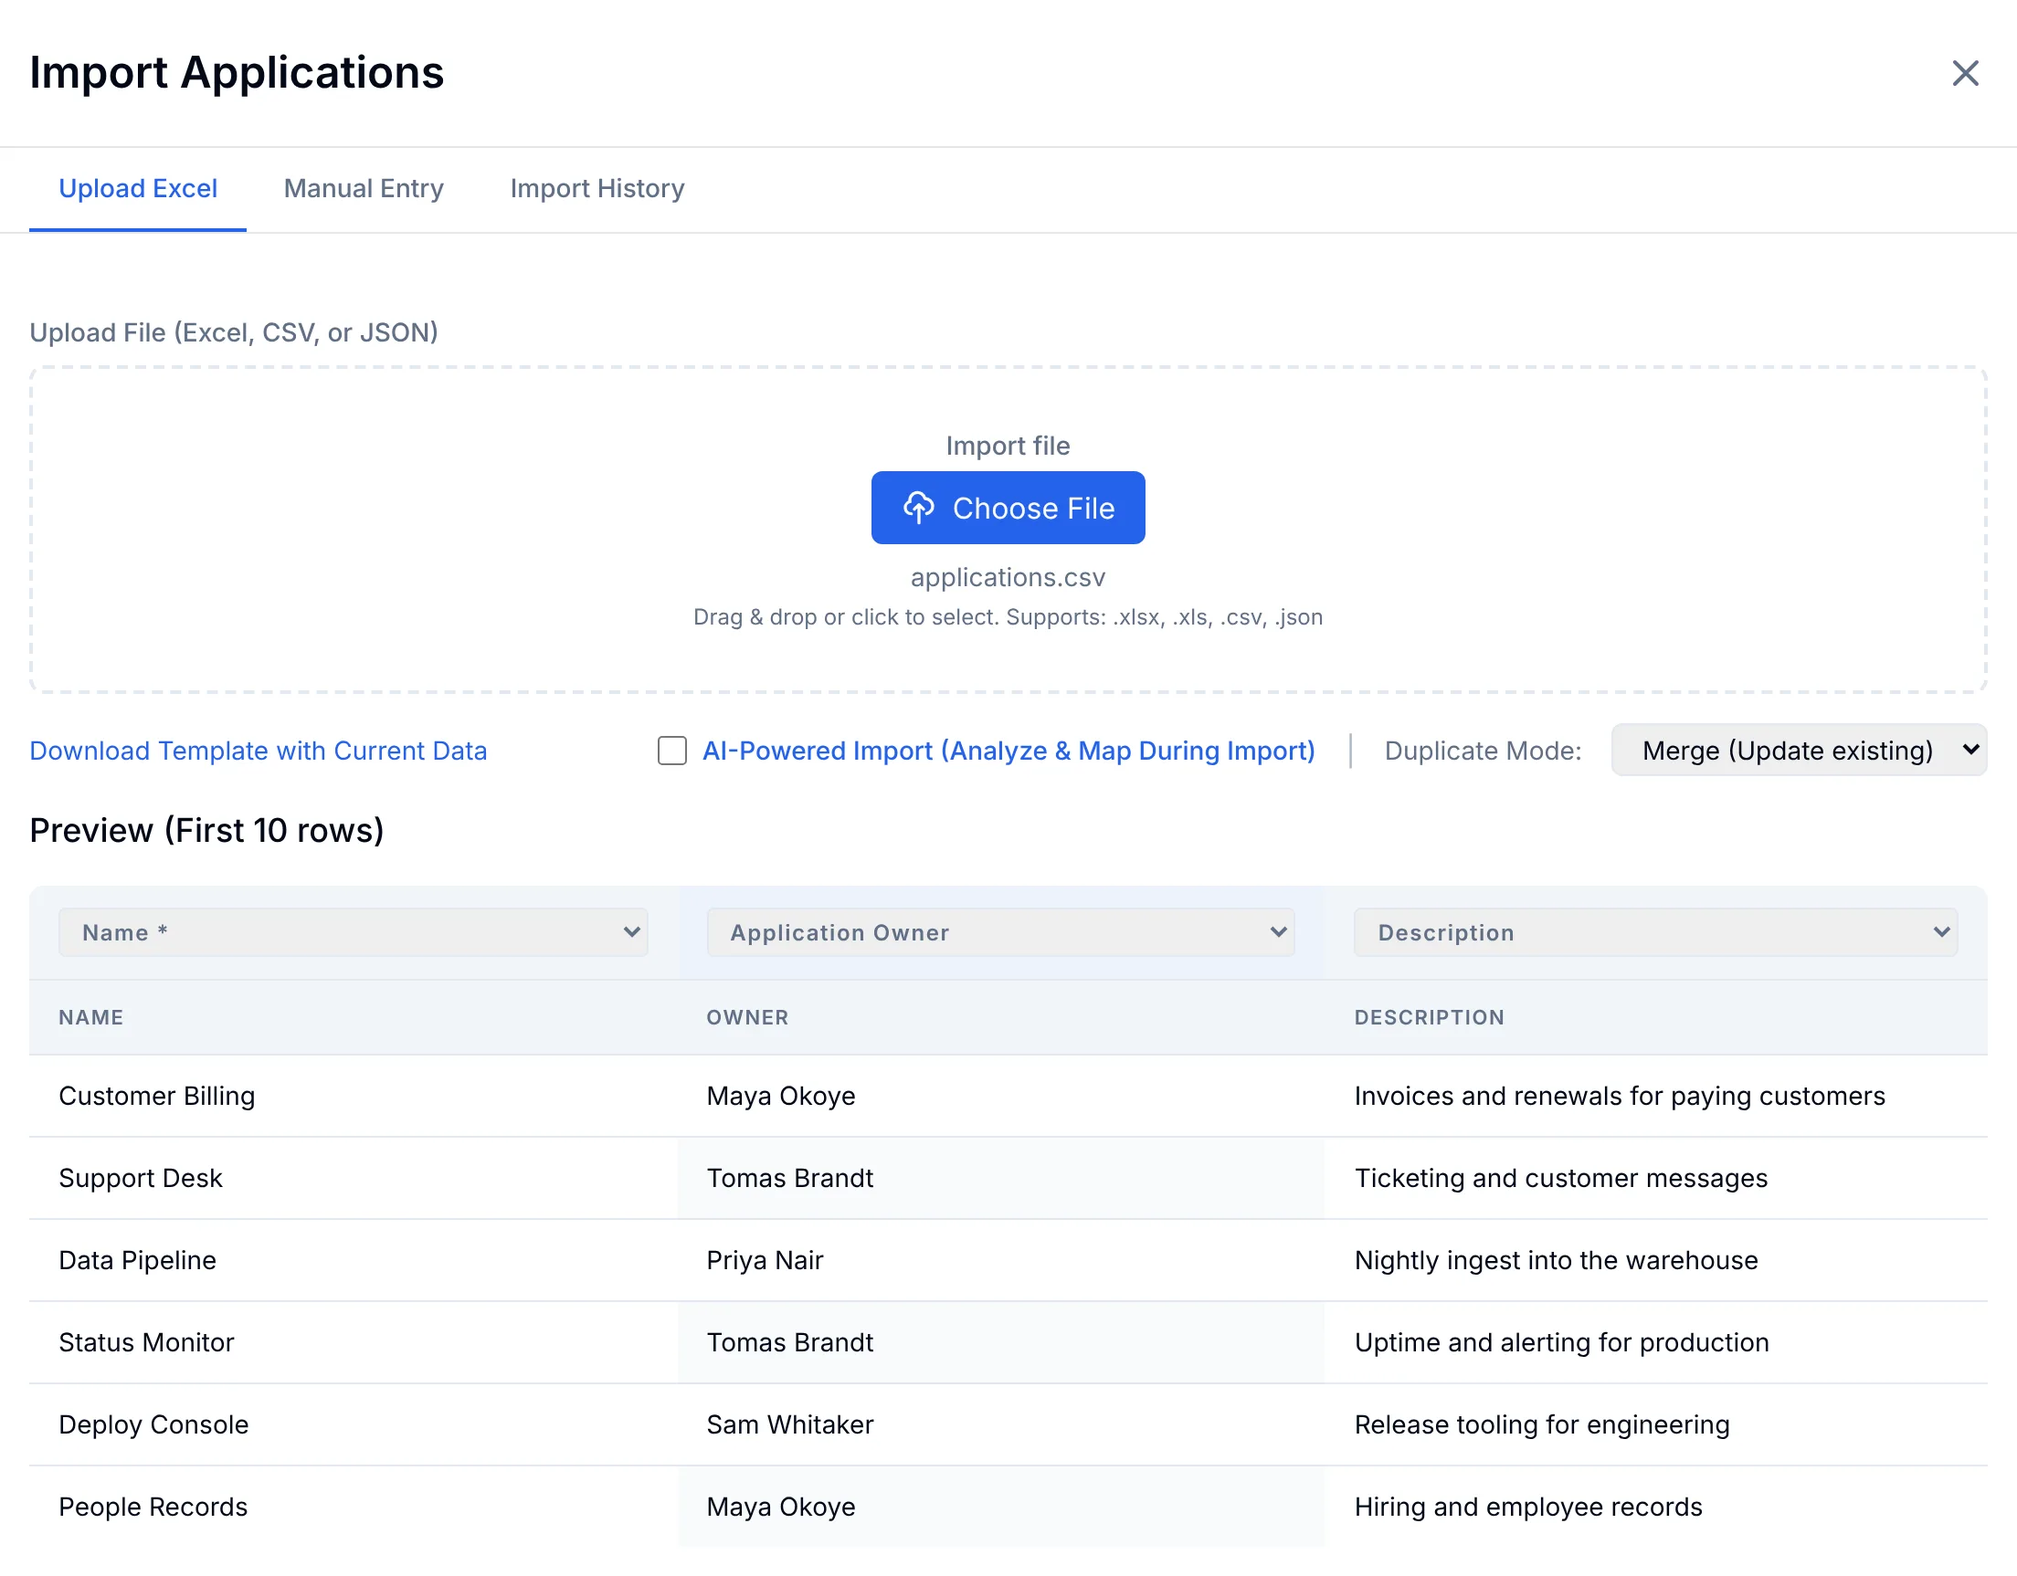
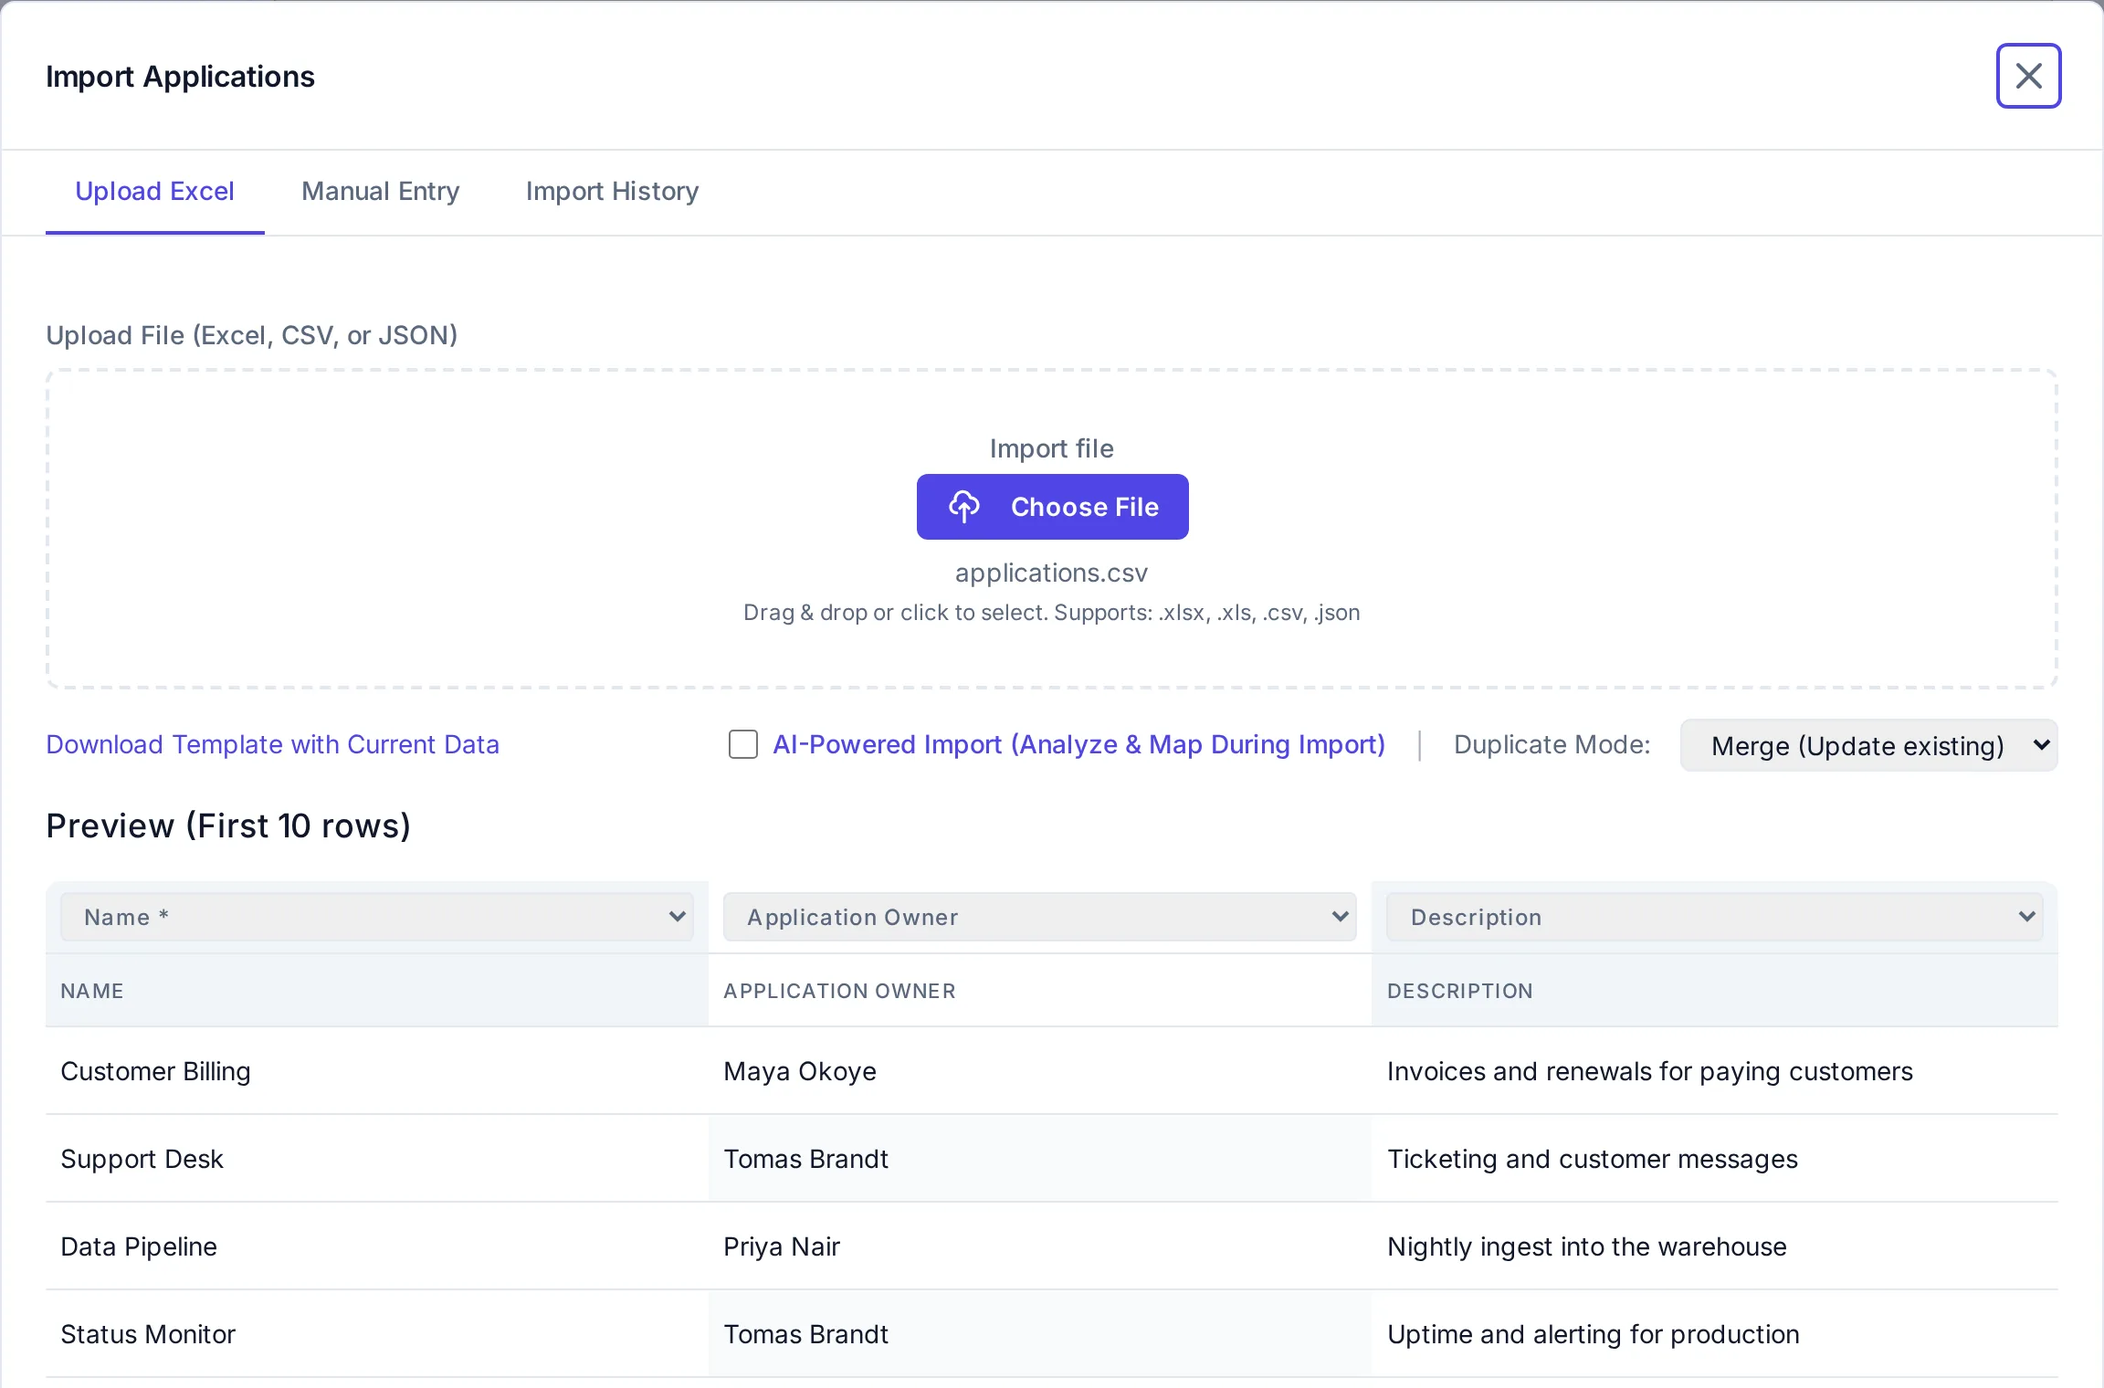
Scale-up CTO page leads with connecting GitHub or Jira; the import picture has a real phone capture
The headline, opening and first-sitting steps put GitHub or Jira first, with the
spreadsheet import as the second route. The Import dialog is captured again at
1408 and at 390 wide, so a phone is given a phone-sized capture instead of the
desktop image scaled down. Two journeys cover both.

Evidence: pytest tests/test_role_pages_journey.py -> 21 passed

diff --git a/scripts/capture_proof_assets.py b/scripts/capture_proof_assets.py
@@ -322,6 +322,31 @@ def seed_role_users(password: str) -> None:
         db.session.commit()
 
 
+def seed_import_user(password: str) -> str:
+    """One CTO on the demonstration organisation who may write, since the import is a write (idempotent)."""
+    from werkzeug.security import generate_password_hash
+
+    from app import create_app, db
+    from app.models.organization import Organization
+    from app.models.user import Role, User
+
+    app = create_app()
+    with app.app_context():
+        org = Organization.query.filter_by(name="Lantern Quay Systems").first()
+        if org is None:
+            raise SystemExit("import dialog: demonstration organisation missing; run seed-demo-company first")
+        Role.insert_roles()
+        email = role_email("cto_importer")
+        if not User.query.filter_by(email=email).first():
+            db.session.add(User(
+                email=email, first_name="Proof", last_name="CTO", organization_id=org.id,
+                enterprise_role="cto", confirmed=True, role=Role.query.filter_by(name="Architect").first(),
+                password_hash=generate_password_hash(password),
+            ))
+            db.session.commit()
+        return email
+
+
 def _role_screen_path(slug: str) -> str:
     """The screen ROLE_CAPTURES registers for this role page (Ask for the first four)."""
     from app.services.public_pages import ROLE_CAPTURES
@@ -426,11 +451,75 @@ def capture_role(browser, base, password, slug: str, archetype: str, wide: bool 
         ctx.close()
 
 
+def capture_import_dialog(browser, base, password, wide: bool) -> tuple[bool, str]:
+    """The Import Applications dialog with a small owner spreadsheet chosen and its first rows previewed.
+
+    Taken at the width it is shown at (1408 wide for the desktop crop, 390 for the phone crop), so the
+    phone image is a real phone capture and not the desktop image scaled down. The dialog markup is
+    read from the served page and placed inside the portfolio's own scope before it is opened.
+    """
+    import tempfile
+
+    vw, vh = (1408, 1600) if wide else (390, 1400)
+    ctx = browser.new_context(viewport={"width": vw, "height": vh}, device_scale_factor=DPR)
+    page = ctx.new_page()
+    try:
+        _login(page, base, role_email("cto_importer"), password)
+        response = page.goto(base + "/applications/", wait_until="networkidle")
+        if response is None or response.status != 200:
+            return False, "applications answered HTTP %s" % (response.status if response else "none")
+        _dismiss_onboarding(page)
+        html = page.request.get(base + "/applications/").text()
+        page.evaluate(
+            """(html) => {
+              const doc = new DOMParser().parseFromString(html, 'text/html');
+              const modal = doc.getElementById('application-import-modal');
+              document.getElementById('app-portfolio-root').appendChild(document.importNode(modal, true));
+            }""",
+            html,
+        )
+        page.wait_for_timeout(500)
+        with tempfile.TemporaryDirectory() as tmp:
+            sheet = pathlib.Path(tmp) / "applications.csv"
+            sheet.write_text(
+                "Name,Application Owner,Description\n"
+                "Customer Billing,Maya Okoye,Invoices and renewals for paying customers\n"
+                "Support Desk,Tomas Brandt,Ticketing and customer messages\n"
+                "Data Pipeline,Priya Nair,Nightly ingest into the warehouse\n"
+                "Status Monitor,Tomas Brandt,Uptime and alerting for production\n"
+                "Deploy Console,Sam Whitaker,Release tooling for engineering\n"
+                "People Records,Maya Okoye,Hiring and employee records\n"
+            )
+            page.evaluate(
+                """() => { const m = document.getElementById('application-import-modal');
+                           m.removeAttribute('hidden'); m.classList.add('flex'); }"""
+            )
+            page.wait_for_selector("#application-import-modal", state="visible")
+            page.locator("#application-import-modal input[type=file]").first.set_input_files(str(sheet))
+            try:
+                page.wait_for_selector("#excel-preview-table tbody tr", timeout=20000)
+            except Exception:
+                return False, "no preview rows appeared"
+        page.wait_for_timeout(800)
+        panel = page.locator("#application-import-modal [data-modal-panel]")
+        box = panel.bounding_box()
+        if box is None:
+            return False, "the dialog is not visible"
+        name = "scale-up-cto-and-vp-engineering.webp" if wide else "scale-up-cto-and-vp-engineering-mobile.webp"
+        png = page.screenshot(clip={"x": box["x"], "y": box["y"], "width": box["width"], "height": min(box["height"], 1000 if not wide else 760)})
+        _webp(png, IMG / "roles" / name)
+        return True, "captured"
+    finally:
+        ctx.close()
+
+
 def main() -> int:
     parser = argparse.ArgumentParser()
     parser.add_argument("--base", default="http://127.0.0.1:5100")
     parser.add_argument("--roles", action="store_true",
                         help="capture only the four role-page workspaces (seeds their users first)")
+    parser.add_argument("--import-dialog", action="store_true",
+                        help="capture only the Import Applications dialog for the scale-up CTO page")
     parser.add_argument("--chromium", default=os.environ.get("PROOF_CHROMIUM"))
     args = parser.parse_args()
     password = os.environ.get("DEMO_USER_PASSWORD")
@@ -441,11 +530,18 @@ def main() -> int:
 
     if args.roles:
         seed_role_users(password)
+    if args.import_dialog:
+        seed_import_user(password)
 
     with sync_playwright() as pw:
         launch = {"executable_path": args.chromium, "args": ["--no-sandbox"]} if args.chromium else {}
         browser = pw.chromium.launch(**launch)
         try:
+            if args.import_dialog:
+                for wide in (True, False):
+                    ok, reason = capture_import_dialog(browser, args.base, password, wide)
+                    print(f"import dialog {'desktop' if wide else 'mobile '} {'CAPTURED' if ok else 'REFUSED '} {reason}")
+                return 0
             if args.roles:
                 for slug, archetype in ROLE_PAGES:
                     for wide in (True, False):

diff --git a/tests/test_role_pages_journey.py b/tests/test_role_pages_journey.py
@@ -40,7 +40,7 @@ HERO_WORDS = {
     "data-architects": "data",
     "cto-and-cio": "CIO",
     "it-portfolio-managers": "portfolio",
-    "scale-up-cto-and-vp-engineering": "spreadsheet",
+    "scale-up-cto-and-vp-engineering": "GitHub",
 }
 
 
@@ -193,5 +193,41 @@ def test_roles_hub_links_every_role_that_has_a_page_and_no_link_is_a_404(browser
         catalogue = page.locator("[data-role-catalogue]")
         assert catalogue.locator("li", has_text="Chief Financial Officer").count() == 1
         assert catalogue.get_by_role("link", name="Chief Financial Officer").count() == 0
+    finally:
+        context.close()
+
+
+def test_scale_up_cto_page_leads_with_connecting_github_or_jira_then_the_spreadsheet(browser, base_url):
+    context = browser.new_context(viewport=DESKTOP)
+    page = context.new_page()
+    try:
+        page.goto(base_url + "/roles/scale-up-cto-and-vp-engineering", wait_until="domcontentloaded")
+        hero = page.locator('[data-testid="landing-hero"]')
+        top = (hero.locator("h1").inner_text() + " " + hero.locator("p").first.inner_text())
+        assert "GitHub" in top and "Jira" in top, top
+        assert top.index("GitHub") < top.lower().index("spreadsheet"), top
+        body = page.locator("main").inner_text()
+        assert "Connect GitHub" in body and "Connect Jira" in body
+        assert body.index("Connect GitHub") < body.index("Import, on the Applications screen") or \
+            body.index("Connect GitHub") < body.index("Import")
+        assert "second route" in body and "spreadsheet" in body
+    finally:
+        context.close()
+
+
+def test_scale_up_cto_page_shows_a_phone_sized_capture_on_a_phone(browser, base_url):
+    context = browser.new_context(viewport=PHONE, is_mobile=True, has_touch=True, device_scale_factor=1)
+    page = context.new_page()
+    try:
+        page.goto(base_url + "/roles/scale-up-cto-and-vp-engineering", wait_until="load")
+        img = page.locator('[data-testid="landing-hero-figure"] img')
+        img.wait_for(state="visible")
+        page.wait_for_function("(el) => el.complete && el.naturalWidth > 0", arg=img.element_handle())
+        src = img.evaluate("el => el.currentSrc")
+        natural = img.evaluate("el => el.naturalWidth")
+        shown = img.bounding_box()["width"]
+        assert "mobile" in src, f"a phone is given the desktop image: {src}"
+        assert natural <= 3 * 390, f"the capture is {natural}px wide, not a phone capture"
+        assert shown <= 390
     finally:
         context.close()

diff --git a/content/pages/roles/scale-up-cto-and-vp-engineering.md b/content/pages/roles/scale-up-cto-and-vp-engineering.md
@@ -4,7 +4,7 @@ role_group: technology-leadership
 state: on_main
 capture_status: live
 cta: plans
-description: "Entelim for scale-up CTOs and VPs of Engineering: import your application spreadsheet, record who owns what, and ask what breaks if a system fails. Start free."
+description: "Entelim for scale-up CTOs and VPs of Engineering: connect GitHub or Jira, or import the spreadsheet you already keep, record who owns what, and ask what breaks if a system fails. Start free."
 source: app/modules/applications/routes/import_export_routes.py (application_import, preview-excel),
   app/templates/application_mgmt/application_import_modal.html, app/modules/applications (list data-quality strip),
   app/modules/intelligence (Ask), app/utils/role_access.py, app/modules/dashboard/v2/routes/dashboard_views.py
@@ -12,13 +12,14 @@ source: app/modules/applications/routes/import_export_routes.py (application_imp
   read 18 October 2026 against the running product, signed up as a new account
 ---
 
-# Know what you run, who owns it and what breaks if it fails — starting from a spreadsheet
+# Know what you run, who owns it and what breaks if it fails — starting from GitHub or Jira
 
 A company of fifty to five hundred people runs on more systems than anyone can list from memory, and the
-list that does exist is a spreadsheet. Entelim starts there. Sign up free, import the sheet, and the
-applications land in one portfolio with the person who owns each one recorded against it; then ask what
-breaks if a system fails and read the answer from the model. A CTO or VP of Engineering can start on the
-free Community plan, with no sales call first.
+list that does exist is a spreadsheet. Entelim starts from the tools your engineers already use. Sign up
+free and connect GitHub or Jira: Entelim reads them and proposes your applications, who owns them and what
+depends on what, and nothing enters the model until a person approves it. If your list lives in a
+spreadsheet instead, import that beside it. Then ask what breaks if a system fails and read the answer
+from the model. A CTO or VP of Engineering can start on the free Community plan, with no sales call first.
 
 **[Start free](/register)** or **[see pricing](/pricing)**.
 
@@ -30,7 +31,8 @@ we actually run, who owns each piece, and what else stops if this one does. They
 a customer's security questionnaire, from an acquirer's diligence list, or from your own on-call rota, and
 the usual answer is a spreadsheet that is out of date the day it is shared. A [CTO or CIO](/roles/cto-and-cio)
 at a larger company reads scorecards built over a long-running model; at this size the first job is simply
-getting the estate recorded once, in one place, with an owner on every line.
+getting the estate recorded once, in one place, with an owner on every line, and the quickest way there is
+to read it from the tools that already hold it.
 
 ## The questions you get asked
 
@@ -39,7 +41,12 @@ getting the estate recorded once, in one place, with an owner on every line.
 
 ## The screens you will use
 
-- **Import**, on the Applications screen, which takes an Excel, CSV or JSON file, shows its first rows,
+- **Connect GitHub**, in the admin connectors. Paste a read-only token and Entelim reads your repositories
+  and proposes a first model: your applications, their parts, who owns them and how they depend on each
+  other. The proposals wait for a person's approval.
+- **Connect Jira**, in the same place, which brings your backlog in as requirements and sends review board
+  decisions back to Jira as epics.
+- **Import**, on the Applications screen, the second route for a spreadsheet you already keep. It takes an Excel, CSV or JSON file, shows its first rows,
   lets you choose which field each column belongs to, and offers a template to start from. Choose
   *Merge* to update applications that already exist or *Duplicate* to add them as new ones.
 - **Applications**, the portfolio the import fills, with a count of how many applications have a named owner
@@ -56,14 +63,15 @@ getting the estate recorded once, in one place, with an owner on every line.
 ## A first sitting with Entelim
 
 1. [Sign up](/register) with your name, an email address and a password.
-2. On Applications, choose Import and upload the spreadsheet you already keep.
-3. Match each column to a field (application name, owner, description) and import.
+2. In the admin connectors, connect GitHub with a read-only token, or Jira with your instance details.
+3. Approve the applications and owners it proposes. Prefer a spreadsheet? On Applications, choose Import,
+   upload it and match each column to a field (application name, owner, description).
 4. Check the portfolio's owner count: every application with a named owner is counted.
 5. Open Ask, pick *What breaks if*, and name the system you worry about most.
 
 ## What you hand over
 
-A portfolio of every application in the spreadsheet, each with the owner it named. A first answer, from Ask,
+A portfolio of every application GitHub, Jira or your spreadsheet named, each with its owner. A first answer, from Ask,
 to what a given system connects to. A starting point for the rest: relationships, capabilities and review
 decisions can be added to the same model as the company grows.
 
@@ -89,6 +97,11 @@ any of them.
 No. Import and Ask work from a plain spreadsheet and a plain question. The ArchiMate 3.2 model underneath
 is there for the architects you hire later; you do not have to learn it to get the first answer.
 
+### Do I have to connect GitHub or Jira?
+
+No. They are the quickest start because the information is already there, but the spreadsheet import works
+on its own. Both can feed the same portfolio.
+
 ### What file can I import?
 
 An Excel (.xlsx or .xls), CSV or JSON file. The import shows the first ten rows and lets you match each
@@ -112,6 +125,6 @@ application data, with a written report and a read-out call.
 
 ## Start free
 
-[Start free](/register) on the Community plan for one organisation of up to three people, import your
-spreadsheet, and ask the question you have been getting asked. Growing teams move to Team, priced per
+[Start free](/register) on the Community plan for one organisation of up to three people, connect GitHub or Jira,
+or import your spreadsheet, and ask the question you have been getting asked. Growing teams move to Team, priced per
 editor. [See full pricing](/pricing).
